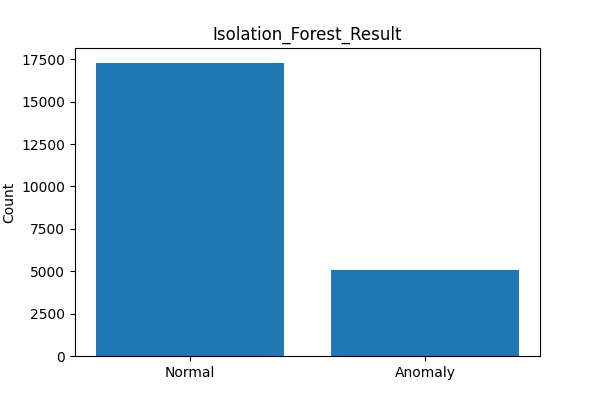
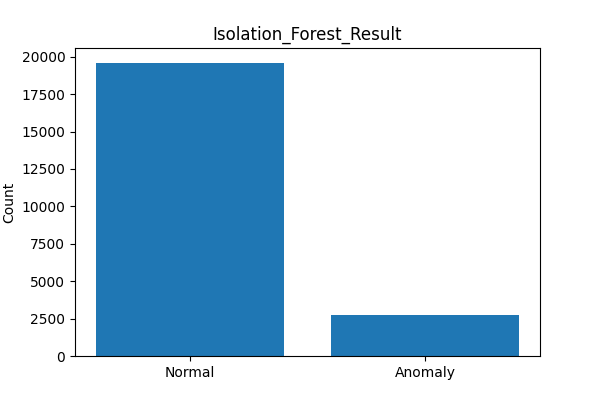
Adding engineering features to PCA.

diff --git a/src/p4_ml_agent.py b/src/p4_ml_agent.py
@@ -1,5 +1,4 @@
 import os
-import json
 import numpy as np
 import pandas as pd
 import matplotlib
@@ -7,91 +6,116 @@ matplotlib.use("Agg")
 import matplotlib.pyplot as plt
 import seaborn as sns
 from sklearn.preprocessing import StandardScaler
-from sklearn.ensemble import IsolationForest, RandomForestClassifier, GradientBoostingClassifier
+from sklearn.ensemble import IsolationForest
 from sklearn.neighbors import LocalOutlierFactor
-from sklearn.metrics import classification_report
-from sklearn.metrics import confusion_matrix
-from sklearn.metrics import precision_recall_curve
-from sklearn.metrics import auc
-from sklearn.metrics import roc_auc_score
-from scipy.stats import skew
-from sklearn.model_selection import train_test_split
-from sklearn.decomposition import PCA
-from sklearn.metrics import (accuracy_score, precision_score, recall_score, f1_score)
+from sklearn.metrics import (confusion_matrix, accuracy_score, precision_score, recall_score, f1_score)
 
 
-# Get the cleaned dataset path
 CLEAN_PATH = os.path.join(os.path.dirname(__file__), "..", "data", "cleaned_data.csv")
-# Get the output directory
 OUTPUT_DIR = os.path.join(os.path.dirname(__file__), "..", "outputs")
 
 os.makedirs(OUTPUT_DIR, exist_ok=True)
 
 
-# Train the IsolationForest model
-def train_isolation_forest(X, contamination=0.05):
-    model = IsolationForest(contamination=contamination, random_state=42)
-    predictions = model.fit_predict(X)
+# Build engagement ratio features that distinguish viral posts from merely popular ones.
+def engineer_features(df):
+    eps = 1
+    features = pd.DataFrame(index=df.index)
 
-    return predictions
-
-# Train the LOF model
-def train_lof(X, contamination=0.05):
-    model = LocalOutlierFactor(n_neighbors=20, contamination=contamination)
-    predictions = model.fit_predict(X)
-
-    return predictions
+    for col in ["follower_count", "likes", "comments", "shares", "saves", "reach", "impressions", "engagement_rate", 
+                "followers_gained", "caption_length", "hashtags_count", "post_hour"]:
+        if col in df.columns:
+            features[col] = df[col]
 
 
-# Visualize anomaly distribution
+    day_order = ["Monday", "Tuesday", "Wednesday", "Thursday", "Friday", "Saturday", "Sunday"]
+    if "day_of_week" in df.columns:
+        features["day_of_week"] = df["day_of_week"].map({d: i for i, d in enumerate(day_order)}).fillna(0).astype(int)
+
+    features["likes_per_reach"] = df["likes"] / (df["reach"] + eps)
+    features["comments_per_reach"] = df["comments"] / (df["reach"] + eps)
+    features["shares_per_reach"] = df["shares"] / (df["reach"] + eps)
+    features["saves_per_reach"] = df["saves"] / (df["reach"] + eps)
+    features["shares_per_likes"] = df["shares"] / (df["likes"] + eps)
+    features["saves_per_likes"] = df["saves"] / (df["likes"] + eps)
+    features["total_engagement"] = df["likes"] + df["comments"] + df["shares"] + df["saves"]
+    features["engagement_per_reach"] = features["total_engagement"] / (df["reach"] + eps)
+
+    return features
+
+
+def scale_features(X_df):
+    scaler = StandardScaler()
+    return scaler.fit_transform(X_df)
+
+
+def train_isolation_forest(X_normal, X_all):
+    model = IsolationForest(n_estimators=300, contamination=0.05, max_features=1.0, random_state=42, n_jobs=-1)
+    model.fit(X_normal)
+    scores = model.decision_function(X_all)
+    predictions = model.predict(X_all)
+    return predictions, scores
+
+
+def train_lof(X_normal, X_all):
+    model = LocalOutlierFactor(n_neighbors=30, novelty=True, metric="euclidean", n_jobs=-1)
+    model.fit(X_normal)
+    scores = model.decision_function(X_all)
+    predictions = model.predict(X_all)
+    return predictions, scores
+
+
+def find_best_threshold(y_true, scores, target_precision=0.60, target_recall=0.40):
+    thresholds = np.percentile(scores, np.linspace(0.5, 49, 300))
+
+    best_result = None
+    best_f1 = 0.0
+
+    for thresh in thresholds:
+        y_pred = (scores <= thresh).astype(int)
+        if y_pred.sum() == 0:
+            continue
+
+        prec = precision_score(y_true, y_pred, zero_division=0)
+        rec  = recall_score(y_true, y_pred, zero_division=0)
+        f1   = f1_score(y_true, y_pred, zero_division=0)
+
+        if prec >= target_precision and rec >= target_recall and f1 > best_f1:
+            best_f1 = f1
+            best_result = (thresh, prec, rec, f1, y_pred)
+
+    return best_result
+
+
 def plot_anomaly_results(predictions, title):
-
-    normal = (predictions == 1).sum()
+    normal  = (predictions == 1).sum()
     anomaly = (predictions == -1).sum()
-
-    labels = ["Normal", "Anomaly"]
-    values = [normal, anomaly]
-
     plt.figure(figsize=(6, 4))
-    plt.bar(labels, values)
-
+    plt.bar(["Normal", "Anomaly"], [normal, anomaly])
     plt.title(title)
     plt.ylabel("Count")
-
-    save_path = os.path.join(OUTPUT_DIR,f"{title}.png")
-
-    plt.savefig(save_path)
+    plt.savefig(os.path.join(OUTPUT_DIR, f"{title}.png"))
     plt.close()
 
 
-# Plot the confusion matrix of the to model by convert model output if IsolationForest / LOF: to -1 = anomaly & 1 = normal
-def plot_confusion_matrix(y_true, predictions, title):
-    y_pred = np.where(predictions == -1, 1, 0)
-
+def plot_confusion_matrix(y_true, y_pred, title):
     cm = confusion_matrix(y_true, y_pred)
-
     plt.figure(figsize=(6, 5))
-
-    sns.heatmap(cm,annot=True, fmt="d", cmap="Blues", xticklabels=["Normal", "Anomaly"], yticklabels=["Normal", "Anomaly"])
-
+    sns.heatmap(cm, annot=True, fmt="d", cmap="Blues",
+                xticklabels=["Normal", "Anomaly"],
+                yticklabels=["Normal", "Anomaly"])
     plt.title(title)
     plt.xlabel("Predicted")
     plt.ylabel("Actual")
-
-    save_path = os.path.join(OUTPUT_DIR,f"{title}.png")
-
-    plt.savefig(save_path)
+    plt.savefig(os.path.join(OUTPUT_DIR, f"{title}.png"))
     plt.close()
 
 
-# Evaluate the model's accuracy, precision, and recall
-def evaluate_model(y_true, predictions, model_name):
-    y_pred = np.where(predictions == -1, 1, 0)
-
-    accuracy = accuracy_score(y_true, y_pred)
-    precision = precision_score(y_true, y_pred)
-    recall = recall_score(y_true, y_pred)
-    f1 = f1_score(y_true, y_pred)
+def evaluate_model(y_true, y_pred, model_name):
+    accuracy  = accuracy_score(y_true, y_pred)
+    precision = precision_score(y_true, y_pred, zero_division=0)
+    recall    = recall_score(y_true, y_pred, zero_division=0)
+    f1        = f1_score(y_true, y_pred, zero_division=0)
 
     print(f"\n######## {model_name} Evaluation ##########")
     print(f"Accuracy : {accuracy:.4f}")
@@ -100,40 +124,54 @@ def evaluate_model(y_true, predictions, model_name):
     print(f"F1 Score : {f1:.4f}")
     print("\n")
 
+    return accuracy, precision, recall, f1
 
-def main(X, df):
-    # pseudo labels
+
+def main(df):
     y_true = np.where(df["performance_bucket_label"] == "viral", 1, 0)
 
-    # Match contamination to actual viral proportion so models flag the right number of anomalies
-    viral_rate = y_true.mean()
+    X_eng = engineer_features(df)
+    X_scaled = scale_features(X_eng)
 
-    # Isolation Forest Details
-    if_predictions = train_isolation_forest(X, contamination=viral_rate)
+    X_normal = X_scaled[y_true == 0]
+
+    # Train Isolation Forest Model
+    if_preds_default, if_scores = train_isolation_forest(X_normal, X_scaled)
 
     print("\nIsolation Forest Results")
-    print(pd.Series(if_predictions).value_counts())
+    print(pd.Series(if_preds_default).value_counts())
+    plot_anomaly_results(if_preds_default, "Isolation_Forest_Result")
 
-    plot_anomaly_results(if_predictions, "Isolation_Forest_Result")
+    if_best = find_best_threshold(y_true, if_scores)
+    if if_best:
+        thresh, prec, rec, f1, if_y_pred = if_best
+        print(f"Optimised threshold={thresh:.4f}  Precision={prec:.4f}  Recall={rec:.4f}  F1={f1:.4f}")
 
-    plot_confusion_matrix(y_true, if_predictions, "Isolation_Forest_Confusion_Matrix")
+    else:
+        print("No threshold met all targets — using default contamination boundary")
+        if_y_pred = np.where(if_preds_default == -1, 1, 0)
 
-    evaluate_model(y_true, if_predictions, "Isolation Forest")
+    plot_confusion_matrix(y_true, if_y_pred, "Isolation_Forest_Confusion_Matrix")
+    evaluate_model(y_true, if_y_pred, "Isolation Forest")
 
 
-    # LOF Details
-    lof_predictions = train_lof(X, contamination=viral_rate)
+    #Train Local Outlier Factor model
+    lof_preds_default, lof_scores = train_lof(X_normal, X_scaled)
 
     print("\nLOF Results")
-    print(pd.Series(lof_predictions).value_counts())
+    print(pd.Series(lof_preds_default).value_counts())
+    plot_anomaly_results(lof_preds_default, "LOF_Result")
 
-    plot_anomaly_results(lof_predictions, "LOF_Result")
+    lof_best = find_best_threshold(y_true, lof_scores)
+    if lof_best:
+        thresh, prec, rec, f1, lof_y_pred = lof_best
+        print(f"Optimised threshold={thresh:.4f}  Precision={prec:.4f}  Recall={rec:.4f}  F1={f1:.4f}")
 
-    plot_confusion_matrix(y_true, lof_predictions, "LOF_Confusion_Matrix")
+    else:
+        print("No threshold for all targets.")
+        lof_y_pred = np.where(lof_preds_default == -1, 1, 0)
 
-    evaluate_model(y_true, lof_predictions, "Local Outlier Factor")
+    plot_confusion_matrix(y_true, lof_y_pred, "LOF_Confusion_Matrix")
+    evaluate_model(y_true, lof_y_pred, "Local Outlier Factor")
 
-
-    return if_predictions, lof_predictions
-
-
+    return if_preds_default, lof_preds_default

diff --git a/pipeline.py b/pipeline.py
@@ -10,9 +10,9 @@ def main():
     # Task 2
     exploratory_analysis(cleaned_df)
     # Task 3
-    pca, X_pca = perform_PCA(cleaned_df)
+    perform_PCA(cleaned_df)
     # Task 4
-    train_model(X_pca, cleaned_df)
+    train_model(cleaned_df)
 
 
 if __name__ == "__main__":
